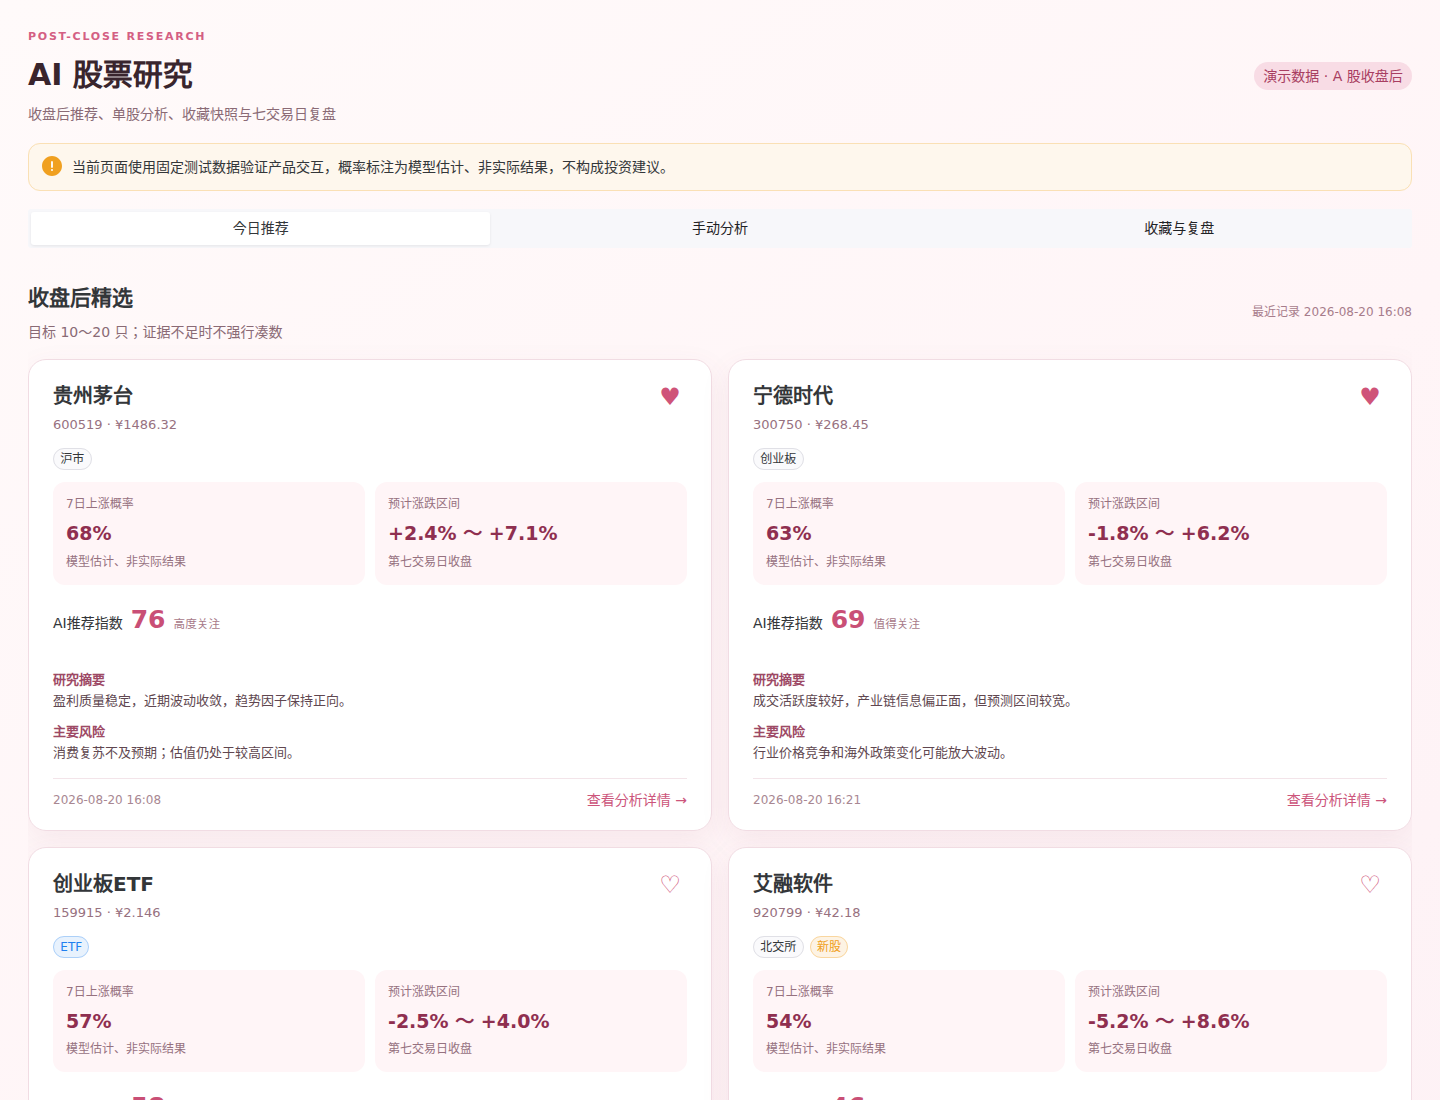
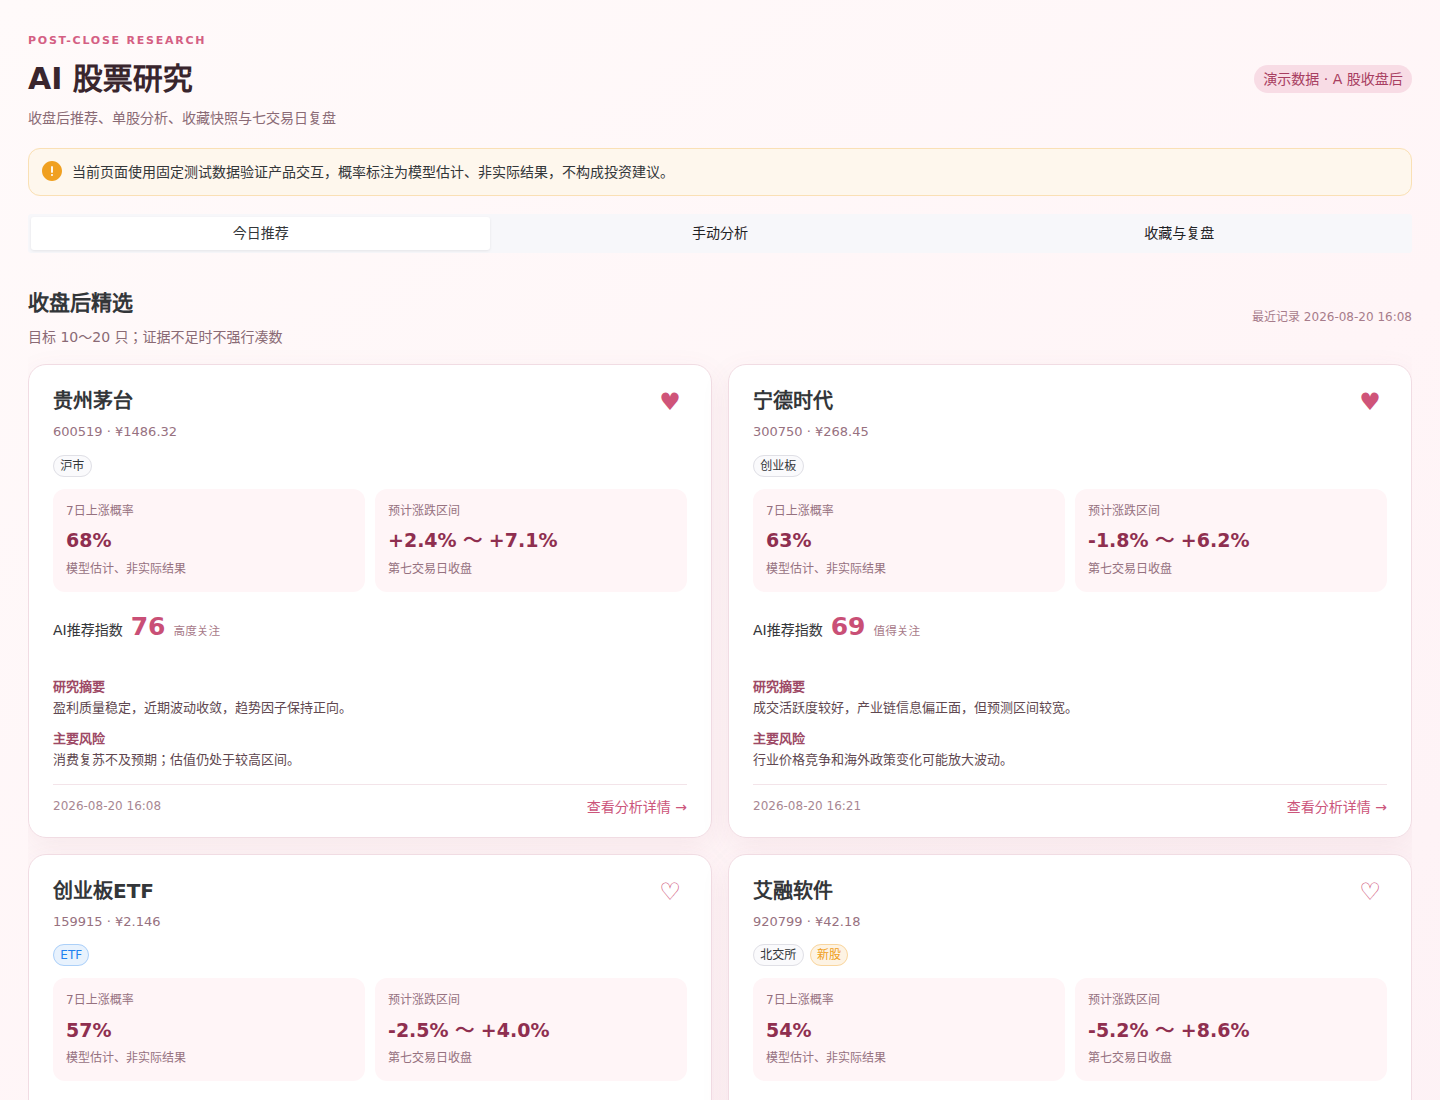
fix: simplify recommendation MVP behavior

diff --git a/frontend/src/components/ai-recommendations.vue b/frontend/src/components/ai-recommendations.vue
@@ -11,21 +11,24 @@ const searchMessage = ref('')
 const selectedStock = ref(null)
 const loadingRecords = ref(false)
 const recordError = ref('')
-const dataMode = ref('演示数据')
+const isDesktopRuntime = Boolean(window.go?.main?.App?.GetAIRecommendationCards)
 
-// 第一轮只验证完整产品交互；接入真实模型前必须移除这些演示记录。
-const recommendations = ref([
+// 浏览器预览保留少量固定记录；桌面应用从首帧起只展示本地真实记录。
+const demoRecommendations = [
   {code: '600519', name: '贵州茅台', price: 1486.32, probability: 68, range: '+2.4% ～ +7.1%', index: 76, level: '高度关注', tags: ['沪市'], reason: '盈利质量稳定，近期波动收敛，趋势因子保持正向。', risk: '消费复苏不及预期；估值仍处于较高区间。', completedAt: '2026-08-20 16:08'},
   {code: '300750', name: '宁德时代', price: 268.45, probability: 63, range: '-1.8% ～ +6.2%', index: 69, level: '值得关注', tags: ['创业板'], reason: '成交活跃度较好，产业链信息偏正面，但预测区间较宽。', risk: '行业价格竞争和海外政策变化可能放大波动。', completedAt: '2026-08-20 16:21'},
   {code: '159915', name: '创业板ETF', price: 2.146, probability: 57, range: '-2.5% ～ +4.0%', index: 58, level: '谨慎观察', tags: ['ETF'], reason: '分散单股风险，短期趋势尚未形成强一致性。', risk: '指数波动与市场风险偏好高度相关。', completedAt: '2026-08-20 16:34'},
   {code: '920799', name: '艾融软件', price: 42.18, probability: 54, range: '-5.2% ～ +8.6%', index: 46, level: '谨慎观察', tags: ['北交所', '新股'], reason: '成长性具备观察价值，但历史样本和流动性证据有限。', risk: '新股样本不足、波动较高，预测不确定性明显。', completedAt: '2026-08-20 16:48'},
-])
+]
 
-const favoriteCodes = ref(new Set(['600519', '300750']))
-const reviews = ref([
+const demoReviews = [
   {code: '600519', name: '贵州茅台', frozenAt: '2026-08-11 16:12', probability: 66, predictedRange: '+1.5% ～ +6.0%', index: 73, dueDate: '2026-08-20', actualReturn: '+3.82%', direction: '命中', interval: '命中', deviation: '0.00%', status: 'completed'},
   {code: '300750', name: '宁德时代', frozenAt: '2026-08-18 16:28', probability: 62, predictedRange: '-2.0% ～ +5.8%', index: 67, dueDate: '2026-08-27', actualReturn: '待复盘', direction: '—', interval: '—', deviation: '—', status: 'pending'},
-])
+]
+const dataMode = ref(isDesktopRuntime ? '本地推荐记录' : '演示数据')
+const recommendations = ref(isDesktopRuntime ? [] : demoRecommendations)
+const favoriteCodes = ref(new Set(isDesktopRuntime ? [] : ['600519', '300750']))
+const reviews = ref(isDesktopRuntime ? [] : demoReviews)
 
 const favoriteRows = computed(() => reviews.value.filter(item => favoriteCodes.value.has(item.code)))
 const tagType = tag => tag.includes('ST') || tag === '新股' ? 'warning' : tag === 'ETF' ? 'info' : 'default'
@@ -65,7 +68,7 @@ function backendCard(card) {
 }
 
 async function loadPersistedRecords() {
-  if (!window.go?.main?.App?.GetAIRecommendationCards) return
+  if (!isDesktopRuntime) return
   loadingRecords.value = true
   recordError.value = ''
   try {
@@ -90,7 +93,7 @@ async function analyze() {
   analyzedStock.value = null
   searchMessage.value = ''
   try {
-    if (window.go?.main?.App?.SearchAIRecommendationCards) {
+    if (isDesktopRuntime) {
       const results = await SearchAIRecommendationCards(query.value.trim(), 10)
       analyzedStock.value = results.length ? backendCard(results[0]) : null
       if (!results.length) searchMessage.value = '本地没有这只股票的历史分析。真实模型尚未配置时不会生成虚构结果。'
@@ -147,7 +150,7 @@ const reviewColumns = [
       </n-tab-pane>
 
       <n-tab-pane name="manual" tab="手动分析">
-        <section class="manual-panel"><div class="manual-copy"><span class="eyebrow">SINGLE STOCK</span><h2>搜索一只 A 股</h2><p>选择股票后才启动分析，不会在输入每个字符时调用模型。</p></div><n-input-group><n-input v-model:value="query" size="large" placeholder="输入代码或名称，例如 600519" clearable @keyup.enter="analyze"/><n-button size="large" type="primary" color="#d75f83" :loading="analyzing" @click="analyze">开始分析</n-button></n-input-group></section>
+        <section class="manual-panel"><div class="manual-copy"><span class="eyebrow">SINGLE STOCK</span><h2>搜索一只 A 股</h2><p>{{ isDesktopRuntime ? '查询本机已经保存的历史分析；真实模型入口将在数据与模型配置完成后启用。' : '预览模式仅演示搜索与结果展示，不会调用真实模型。' }}</p></div><n-input-group><n-input v-model:value="query" size="large" placeholder="输入代码或名称，例如 600519" clearable @keyup.enter="analyze"/><n-button size="large" type="primary" color="#d75f83" :loading="analyzing" @click="analyze">{{ isDesktopRuntime ? '查询历史分析' : '演示搜索' }}</n-button></n-input-group></section>
         <n-empty v-if="!analyzedStock && !analyzing" description="搜索结果将在这里展示上涨概率、预计区间和 AI 推荐指数" class="manual-empty" />
         <n-alert v-if="searchMessage" type="warning" class="manual-message">{{ searchMessage }}</n-alert>
         <n-card v-if="analyzedStock" class="manual-result" :bordered="false"><div class="stock-top"><div><h3>{{ analyzedStock.name }}</h3><span>{{ analyzedStock.code }} · ¥{{ analyzedStock.price }}</span></div><n-button secondary round color="#cc557b" @click="toggleFavorite(analyzedStock)">{{ favoriteCodes.has(analyzedStock.code) ? '已收藏 ♥' : '收藏 ♡' }}</n-button></div><div class="result-metrics"><div><span>7日上涨概率</span><strong>{{ analyzedStock.probability }}%</strong></div><div><span>预计涨跌区间</span><strong>{{ analyzedStock.range }}</strong></div><div><span>AI推荐指数</span><strong>{{ analyzedStock.index }}</strong></div></div><n-alert type="info" :show-icon="false">{{ analyzedStock.reason }} 风险：{{ analyzedStock.risk }}</n-alert></n-card>

diff --git a/frontend/src/App.vue b/frontend/src/App.vue
@@ -601,18 +601,6 @@ const menuOptions = ref([
     key: 'aiRecommendations',
     icon: renderIcon(TrendingUp),
   },
-  {
-    label: () => h(
-        RouterLink,
-        {
-          to: { name: 'aiShadowReport' },
-          onClick: () => { activeKey.value = 'aiShadowReport' },
-        },
-        {default: () => '影子运行报告'}
-    ),
-    key: 'aiShadowReport',
-    icon: renderIcon(StatsChartOutline),
-  },
     {
       label: () =>
           h(
